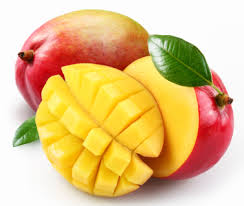
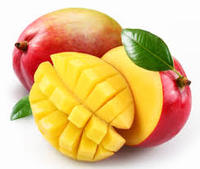
Resize Images

Changed region(s): [[0.87, 0.4142, 0.93, 0.4734], [0.18, 0.355, 0.21, 0.4142], [0.24, 0.355, 0.27, 0.3846]]

diff --git a/app/uploaders/image_uploader.rb b/app/uploaders/image_uploader.rb
@@ -4,7 +4,7 @@ class ImageUploader < CarrierWave::Uploader::Base
 
   # Include RMagick or MiniMagick support:
   # include CarrierWave::RMagick
-  # include CarrierWave::MiniMagick
+  include CarrierWave::MiniMagick
 
   # Choose what kind of storage to use for this uploader:
   # storage :file
@@ -30,7 +30,7 @@ class ImageUploader < CarrierWave::Uploader::Base
   # end
 
   # Process files as they are uploaded:
-  # process :scale => [200, 300]
+  process :resize_to_fit => [200, 300]
   #
   # def scale(width, height)
   #   # do something
